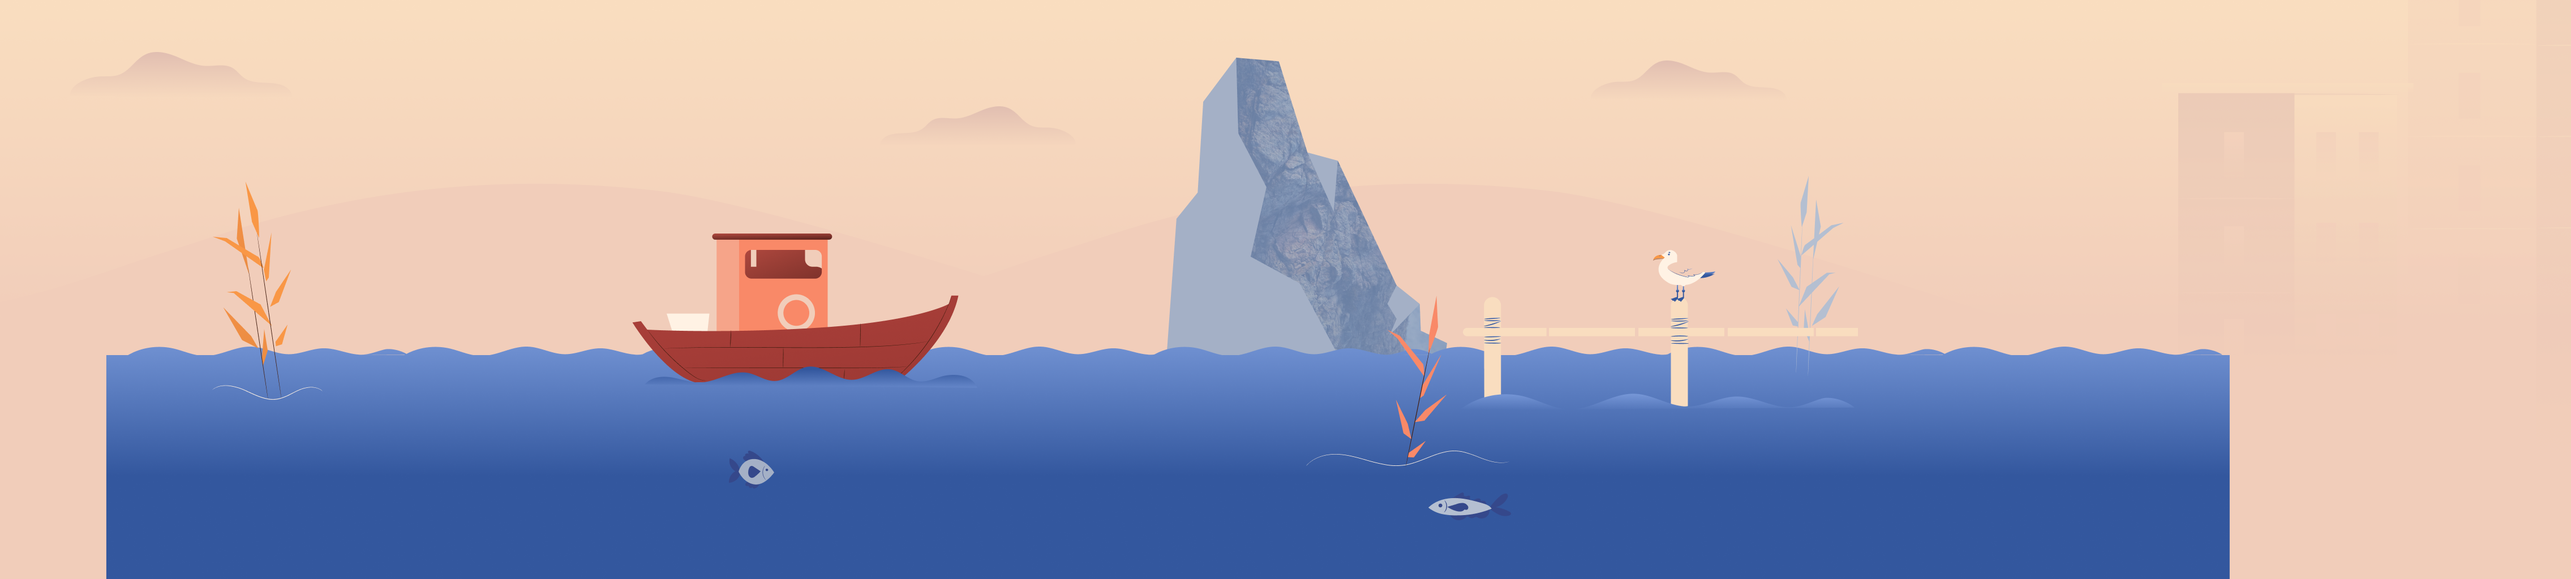
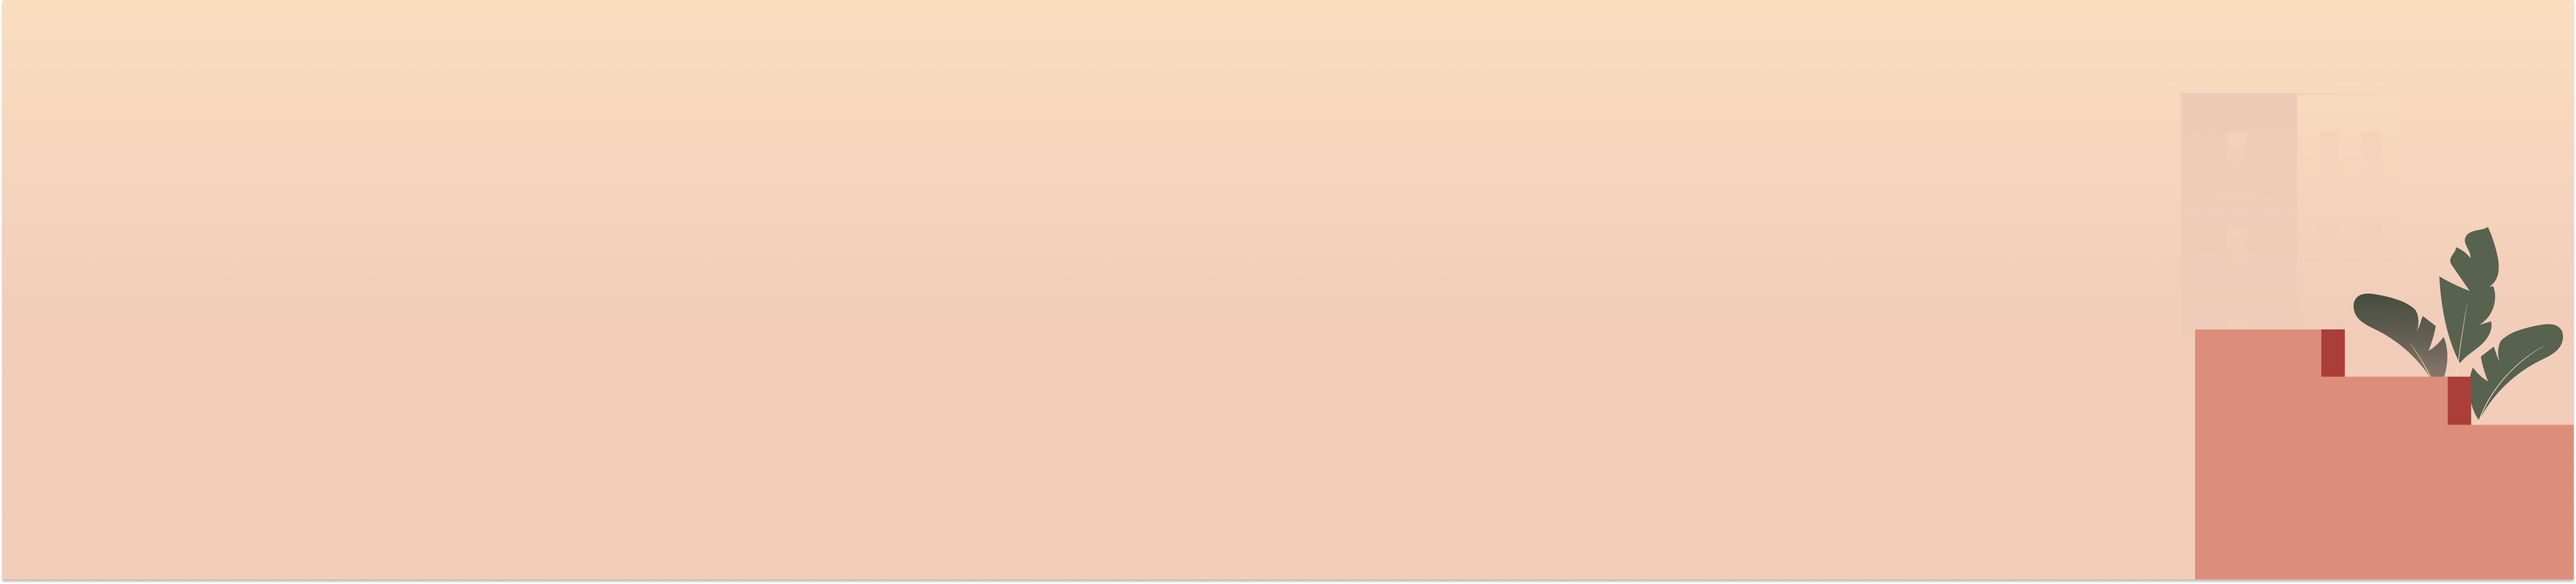
chapter-10

diff --git a/sass/framework/components/chapter/b--chapter10-a.scss b/sass/framework/components/chapter/b--chapter10-a.scss
@@ -1,4 +1,19 @@
 .b--chapter10-a {
+  .b--ss-a {
+    &__artwork {
+      &__media {
+        &--left {
+          left: -21%;
+        }
+      }
+    }
+  }
+  .b--ss-a {
+    // bigger z-index to be shown above ft items
+    &__content {
+      z-index: 10;
+    }
+  }
   &__content {
     // title
     position: absolute;
@@ -37,14 +52,15 @@
           }
         }
       }
-      // spanish card f corrections 
+      // spanish card f corrections
       &--es {
         .b--card-f {
           &__hd {
             max-width: 100%;
-            margin-bottom: $measure*2;
-            &:after, &:before {
-              height: $measure*2;
+            margin-bottom: $measure * 2;
+            &:after,
+            &:before {
+              height: $measure * 2;
             }
           }
         }
@@ -54,17 +70,20 @@
         .b--card-f {
           &__hd {
             max-width: 100%;
-            margin-bottom: $measure*2;
-            &:after, &:before {
-              height: $measure*2;
+            margin-bottom: $measure * 2;
+            &:after,
+            &:before {
+              height: $measure * 2;
             }
           }
           &__bd {
-            &:after, &:before {
+            &:after,
+            &:before {
               height: 10.72vh;
             }
             @media all and ($viewport-type: $laptop) {
-              &:after, &:before {
+              &:after,
+              &:before {
                 height: 10.3vh;
               }
               &:before {
@@ -75,7 +94,6 @@
               }
             }
           }
-
         }
       }
     }
@@ -87,7 +105,7 @@
         left: 11.17%;
         bottom: 27.63%;
       }
-    } 
+    }
   }
   // fisherman animation
   &__artwork {
@@ -104,5 +122,4 @@
       }
     }
   }
-
 }

diff --git a/components/Chapter10.vue b/components/Chapter10.vue
@@ -1,8 +1,11 @@
 <template>
     <section class="b--page-a__item b--chapter10-a" id="Scene10" ref="Scene10" v-if="chapter">
         <div class="b--ss-a"> 
+            <div class="b--ss-a__artwork">
+                <img class="b--ss-a__artwork__media b--ss-a__artwork__media--left" src="@/assets/img/chapter-10/front_rock.png">
+            </div>
             <div class="b--ss-a__ft-items">
-                <img v-lazy="require(`@/assets/img/chapter-10/front.png`)" alt="front" />
+                <img class="b--ss-a__ft-items__parallax" ref="parallax-ft" src="@/assets/img/chapter-10/front-parallax.png">
             </div>
             <!-- animation out of content, fisherman and plant needs more z-index than ft-items and ft-items needs more z-index than content -->
             <div class="b--chapter10-a__artwork">
@@ -30,8 +33,9 @@
                     />
                 </div>
             </div>
-            <div class="b--ss-a__bg-items">
-                <img class="b--ss-a__bg-items__artwork" @load="handleLoad"  @error="handleLoad" src="@/assets/img/chapter-10/back.png">        
+            <div class="b--ss-a__bg-items">  
+                <img class="b--ss-a__bg-items__parallax" ref="parallax-bg" src="@/assets/img/chapter-10/back-parallax.png" alt=""> 
+                <img class="b--ss-a__bg-items__back" @load="handleLoad"  @error="handleLoad" src="@/assets/img/chapter-10/back.png">        
             </div>
         </div>
     </section>
